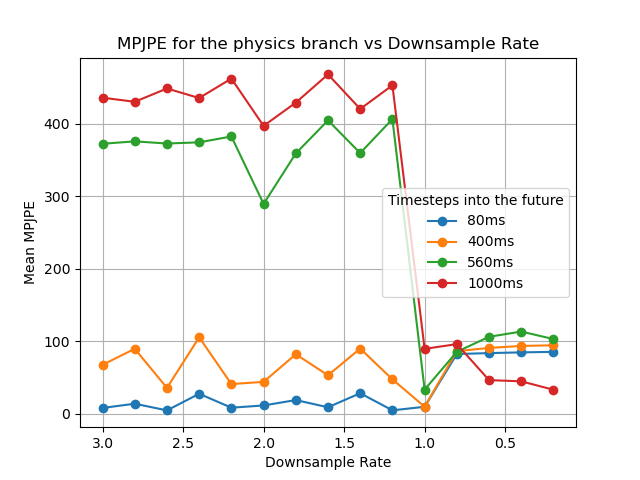
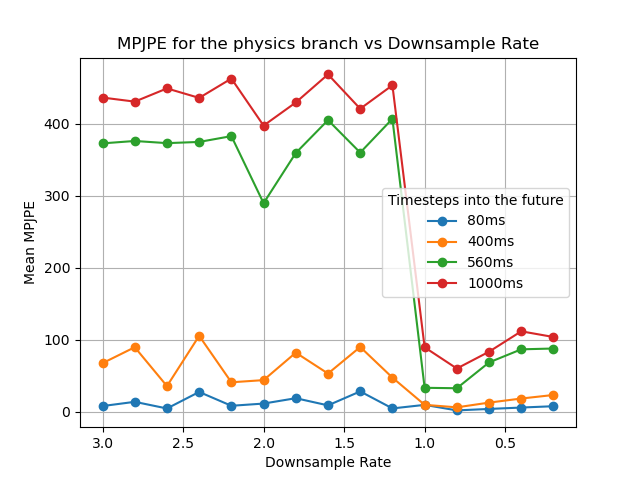
Fix wrong interpolating

diff --git a/exps/run/single_evaluate_physmop.py b/exps/run/single_evaluate_physmop.py
@@ -50,7 +50,6 @@ if __name__ == "__main__":
         # Assume that the model always predicts the same number of frames, at the same frequency
         normal_batch = {k: v[:, -config.total_length:, ...] if isinstance(v, torch.Tensor) else v for k, v in batch.items()}
 
-        print(f"Normal batch shape: {normal_batch['q'].shape}")
 
         downsample_rates = np.arange(3, 0.1, -0.2)  # From 3 to 0.1, step -0.2
         mpjpe_data_results = []
@@ -58,7 +57,6 @@ if __name__ == "__main__":
         mpjpe_fusion_results = []
 
         for downsample_rate in downsample_rates:
-            print(f"Processing rate: {downsample_rate:.2f}")
             processed_batch = {}
 
             if downsample_rate >= 1.0 or np.isclose(downsample_rate, 1.0):
@@ -75,9 +73,10 @@ if __name__ == "__main__":
                 processed_batch = {}
                 for k, v in batch.items():
                     if k == 'q' and isinstance(v, torch.Tensor):
-                        orig_time_steps = v.shape[1]
+                        v_spliced = v[:, :-config.pred_length, ...]
+                        orig_time_steps = v_spliced.shape[1]
                         new_time_steps = int(np.round(orig_time_steps * upsample_factor))
-                        v_perm = v.permute(0, 2, 1)  # [batch, features, time]
+                        v_perm = v_spliced.permute(0, 2, 1)  # [batch, features, time]
                         v_upsampled = F.interpolate(v_perm, size=new_time_steps, mode='linear', align_corners=True)
                         v_upsampled = v_upsampled.permute(0, 2, 1)  # [batch, time, features]
                         processed_batch[k] = v_upsampled[:, -config.hist_length:, ...]
@@ -97,7 +96,7 @@ if __name__ == "__main__":
             model_output, batch_info = realtime_model.predict(combined_batch)
             gt_J, pred_J_data, pred_J_physics_gt, pred_J_fusion = realtime_model.model_output_to_3D_joints(model_output, batch_info, mode='test')
 
-            # visualize_continuous_motion(gt_J, title="Ground Truth Motion", skeleton_type="amass")
+            # visualize_continuous_motion(gt_J, title="Ground Truth Motion", skeleton_type="amass", save_gif_path="gt_motion_{}.gif".format(downsample_rate))
             # visualize_motion_with_ground_truth(pred_J_data.cpu().detach().numpy(), gt_J.cpu().detach().numpy(), title="Predicted vs Ground Truth Motion (Data)",
             #                                     skeleton_type="amass", save_gif_path="output.gif")
             eval_results = realtime_model.evaluation_metrics(gt_J, pred_J_data, pred_J_physics_gt, pred_J_fusion)
